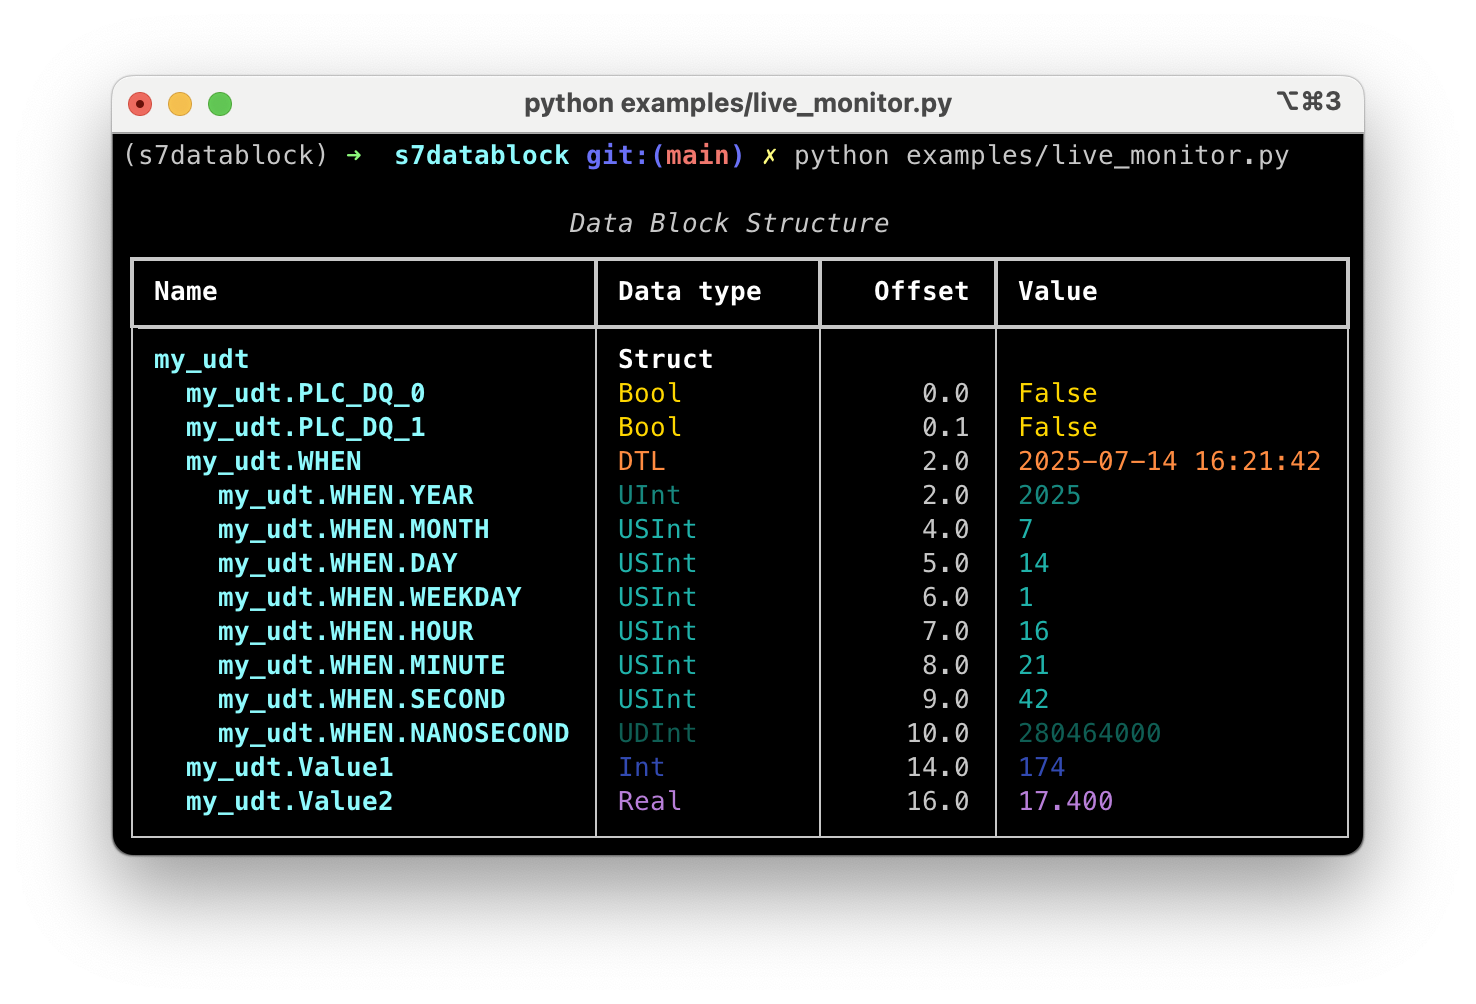
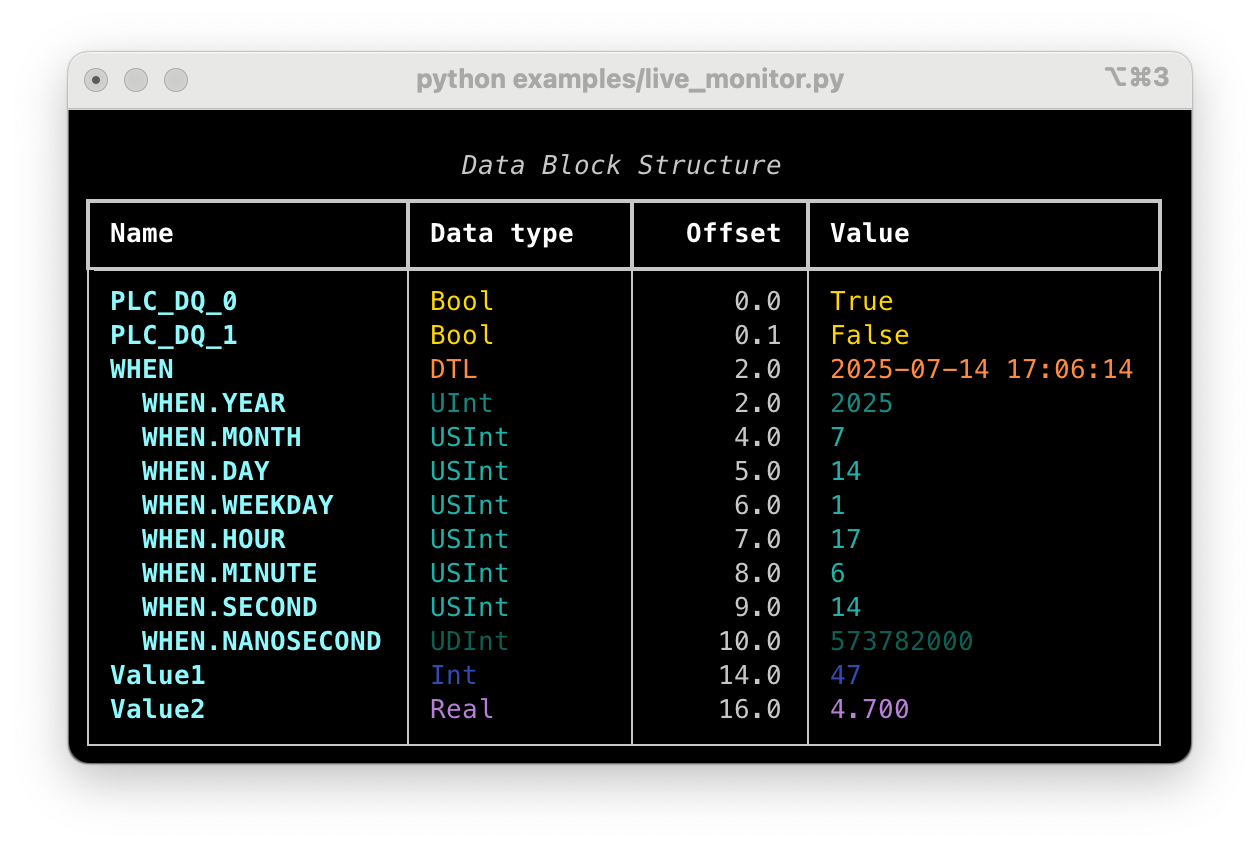
Simplifies data block access and updates example
- Updates the example to directly access data block fields without needing the "my_udt" prefix.
- Modifies the example to print the raw representation of the data block.
- Updates the example screenshot in the README.
- Renames `nesting_depth_to_skip` to `prefix_levels_to_skip` for clarity.

Changed region(s): [[0.031, 0.0613, 0.9595, 0.9198]]

diff --git a/src/s7datablock/parser.py b/src/s7datablock/parser.py
@@ -20,12 +20,12 @@ def resolve_data_types(types: dict[str, Any], prefix: list[str], d: Any) -> Iter
         yield prefix, d
 
 
-def parse_db_file(p: Path | StringIO, nesting_depth_to_skip=1) -> DBParseResult:
+def parse_db_file(p: Path | StringIO, prefix_levels_to_skip=1) -> DBParseResult:
     """Parse a DB file and return a S7Field mapping and total size.
 
     Args:
         p (Path): Path to the DB file
-        nesting_depth_to_skip (int, optional): How many levels in the nested data to skip when generating the fieldnames for nested fields.
+        prefix_levels_to_skip (int, optional): How many prefix levels to skip when generating fieldnames. Default=1 skips the UDT name.
 
     Returns:
         tuple[dict[str, S7Field], int]: The S7Field mapping and total size in bytes
@@ -37,8 +37,8 @@ def parse_db_file(p: Path | StringIO, nesting_depth_to_skip=1) -> DBParseResult:
     else:
         raise TypeError("Input must be a Path or StringIO")
 
-    if nesting_depth_to_skip < 0:
-        raise ValueError("nesting_depth_to_skip must be a non-negative integer")
+    if prefix_levels_to_skip < 0:
+        raise ValueError("prefix_levels_to_skip must be a non-negative integer")
     result = program.parseString(string, parse_all=True).as_dict()
     types = result["TYPES"]
     data = result["DATA_BLOCK"]
@@ -53,7 +53,7 @@ def parse_db_file(p: Path | StringIO, nesting_depth_to_skip=1) -> DBParseResult:
     current_bools: list[str] = []
     prev_base_name = ""
     for i in name_types:
-        name_parts = i.name[nesting_depth_to_skip:]
+        name_parts = i.name[prefix_levels_to_skip:]
         full_name = ".".join(name_parts)
         base_name = ".".join(name_parts[:-1])
         if current_bools and (base_name != prev_base_name or i.type != "Bool"):

diff --git a/examples/live_monitor.py b/examples/live_monitor.py
@@ -6,6 +6,7 @@ from rich.live import Live
 
 from s7datablock.mapping import S7DataBlock
 
+# Example in-line definition file contents. Alternatively, you can pass a PAth to a *.db file.
 df_file_contents = StringIO(
     """
         TYPE "my_udt"
@@ -26,9 +27,12 @@ df_file_contents = StringIO(
     """
 )
 
-db = S7DataBlock.from_definition_file(df_file_contents, db_number=1200, nesting_depth_to_skip=0)
+db = S7DataBlock.from_definition_file(df_file_contents, db_number=1200)
+print(db)  # This will print the structure of the data block as a table
 
+print(repr(db))  # Print the raw representation of the data block
 # In a real application, you would create a snap7 client and connect to the PLC
+
 # client = snap7.client.Client()
 # client.connect('192.168.0.1', 0, 1)
 
@@ -38,10 +42,10 @@ with Live(db.to_table(), refresh_per_second=10) as live:
         # db.GET(client)
 
         # For demo, we'll just modify some values
-        db["my_udt.WHEN"] = datetime.now()
-        db["my_udt.PLC_DQ_0"] = not db["my_udt.PLC_DQ_0"]  # Toggle the boolean
-        db["my_udt.Value1"] = db["my_udt.Value1"] + 1  # Increment the integer value
-        db["my_udt.Value2"] = db["my_udt.Value2"] + 0.1  # Increment the real value
+        db["WHEN"] = datetime.now()
+        db["PLC_DQ_0"] = not db["PLC_DQ_0"]  # Toggle the boolean
+        db["Value1"] = db["Value1"] + 1  # Increment the integer value
+        db["Value2"] = db["Value2"] + 0.1  # Increment the real value
 
         # Update the display with current values
         live.update(db.to_table())

diff --git a/src/s7datablock/mapping.py b/src/s7datablock/mapping.py
@@ -172,17 +172,18 @@ class S7DataBlock(BufferMapping):
         self.db_size = db_size
 
     @classmethod
-    def from_definition_file(cls, path, db_number: int | None = None, nesting_depth_to_skip: int = 1) -> "S7DataBlock":
+    def from_definition_file(cls, path, db_number: int | None = None, prefix_levels_to_skip: int = 1) -> "S7DataBlock":
         """Create an S7DataBlock from a TIA Portal export file.
 
         Args:
             path: Path to the TIA Portal export file
             db_number: Optional DB number for PLC communication
+            prefix_levels_to_skip: How many prefix levels to skip when generating fieldnames. Default=1 skips the UDT name.
 
         Returns:
             S7DataBlock: The created datablock
         """
-        mapping, size = parse_db_file(path, nesting_depth_to_skip=nesting_depth_to_skip)
+        mapping, size = parse_db_file(path, prefix_levels_to_skip=prefix_levels_to_skip)
         return cls(buffer=bytearray(size), mapping=mapping, db_number=db_number, db_size=size)
 
     def GET(self, client: snap7.client.Client):

diff --git a/README.md b/README.md
@@ -23,7 +23,7 @@ Instead of manually mapping byte offsets and types, you can use `.db` definition
 - Clean terminal output using [Rich](https://github.com/Textualize/rich)
 - Easy integration into polling and monitoring loops
 
-![example.png](docs/example.png)
+![example.png](https://github.com/CEAD-group/s7datablock/raw/main/docs/example.png)
 
 ---
 
@@ -70,6 +70,7 @@ df_file_contents = StringIO(
 db = S7DataBlock.from_definition_file(df_file_contents, db_number=1200)
 print(db) # This will print the structure of the data block as a table
 
+print(repr(db))  # Print the raw representation of the data block
 # In a real application, you would create a snap7 client and connect to the PLC
 
 # client = snap7.client.Client()
@@ -81,10 +82,10 @@ with Live(db.to_table(), refresh_per_second=10) as live:
         # db.GET(client)
 
         # For demo, we'll just modify some values
-        db["my_udt.WHEN"] = datetime.now()
-        db["my_udt.PLC_DQ_0"] = not db["my_udt.PLC_DQ_0"]  # Toggle the boolean
-        db["my_udt.Value1"] = db["my_udt.Value1"] + 1  # Increment the integer value
-        db["my_udt.Value2"] = db["my_udt.Value2"] + 0.1  # Increment the real value
+        db["WHEN"] = datetime.now()
+        db["PLC_DQ_0"] = not db["PLC_DQ_0"]  # Toggle the boolean
+        db["Value1"] = db["Value1"] + 1  # Increment the integer value
+        db["Value2"] = db["Value2"] + 0.1  # Increment the real value
 
         # Update the display with current values
         live.update(db.to_table())
@@ -93,26 +94,24 @@ with Live(db.to_table(), refresh_per_second=10) as live:
 
 Running this code should render a live table in your terminal
 ```text
-
-                            Data Block Structure
-┏━━━━━━━━━━━━━━━━━━━━━━━━━━━━┳━━━━━━━━━━━━━┳━━━━━━━━━━┳━━━━━━━━━━━━━━━━━━━━━┓
-┃ Name                       ┃ Data type   ┃   Offset ┃ Value               ┃
-┡━━━━━━━━━━━━━━━━━━━━━━━━━━━━╇━━━━━━━━━━━━━╇━━━━━━━━━━╇━━━━━━━━━━━━━━━━━━━━━┩
-│ my_udt                     │ Struct      │          │                     │
-│   my_udt.PLC_DQ_0          │ Bool        │      0.0 │ False               │
-│   my_udt.PLC_DQ_1          │ Bool        │      0.1 │ False               │
-│   my_udt.WHEN              │ DTL         │      2.0 │ 2025-07-14 16:06:06 │
-│     my_udt.WHEN.YEAR       │ UInt        │      2.0 │ 2025                │
-│     my_udt.WHEN.MONTH      │ USInt       │      4.0 │ 7                   │
-│     my_udt.WHEN.DAY        │ USInt       │      5.0 │ 14                  │
-│     my_udt.WHEN.WEEKDAY    │ USInt       │      6.0 │ 1                   │
-│     my_udt.WHEN.HOUR       │ USInt       │      7.0 │ 16                  │
-│     my_udt.WHEN.MINUTE     │ USInt       │      8.0 │ 6                   │
-│     my_udt.WHEN.SECOND     │ USInt       │      9.0 │ 6                   │
-│     my_udt.WHEN.NANOSECOND │ UDInt       │     10.0 │ 195792000           │
-│   my_udt.Value1            │ Int         │     14.0 │ 44                  │
-│   my_udt.Value2            │ Real        │     16.0 │ 4.400               │
-└────────────────────────────┴─────────────┴──────────┴─────────────────────┘
+                        Data Block Structure
+┏━━━━━━━━━━━━━━━━━━━┳━━━━━━━━━━━━━┳━━━━━━━━━━┳━━━━━━━━━━━━━━━━━━━━━┓
+┃ Name              ┃ Data type   ┃   Offset ┃ Value               ┃
+┡━━━━━━━━━━━━━━━━━━━╇━━━━━━━━━━━━━╇━━━━━━━━━━╇━━━━━━━━━━━━━━━━━━━━━┩
+│ PLC_DQ_0          │ Bool        │      0.0 │ True                │
+│ PLC_DQ_1          │ Bool        │      0.1 │ False               │
+│ WHEN              │ DTL         │      2.0 │ 2025-07-14 17:08:40 │
+│   WHEN.YEAR       │ UInt        │      2.0 │ 2025                │
+│   WHEN.MONTH      │ USInt       │      4.0 │ 7                   │
+│   WHEN.DAY        │ USInt       │      5.0 │ 14                  │
+│   WHEN.WEEKDAY    │ USInt       │      6.0 │ 1                   │
+│   WHEN.HOUR       │ USInt       │      7.0 │ 17                  │
+│   WHEN.MINUTE     │ USInt       │      8.0 │ 8                   │
+│   WHEN.SECOND     │ USInt       │      9.0 │ 40                  │
+│   WHEN.NANOSECOND │ UDInt       │     10.0 │ 568441000           │
+│ Value1            │ Int         │     14.0 │ 757                 │
+│ Value2            │ Real        │     16.0 │ 75.699              │
+└───────────────────┴─────────────┴──────────┴─────────────────────┘
 ```
 
 
